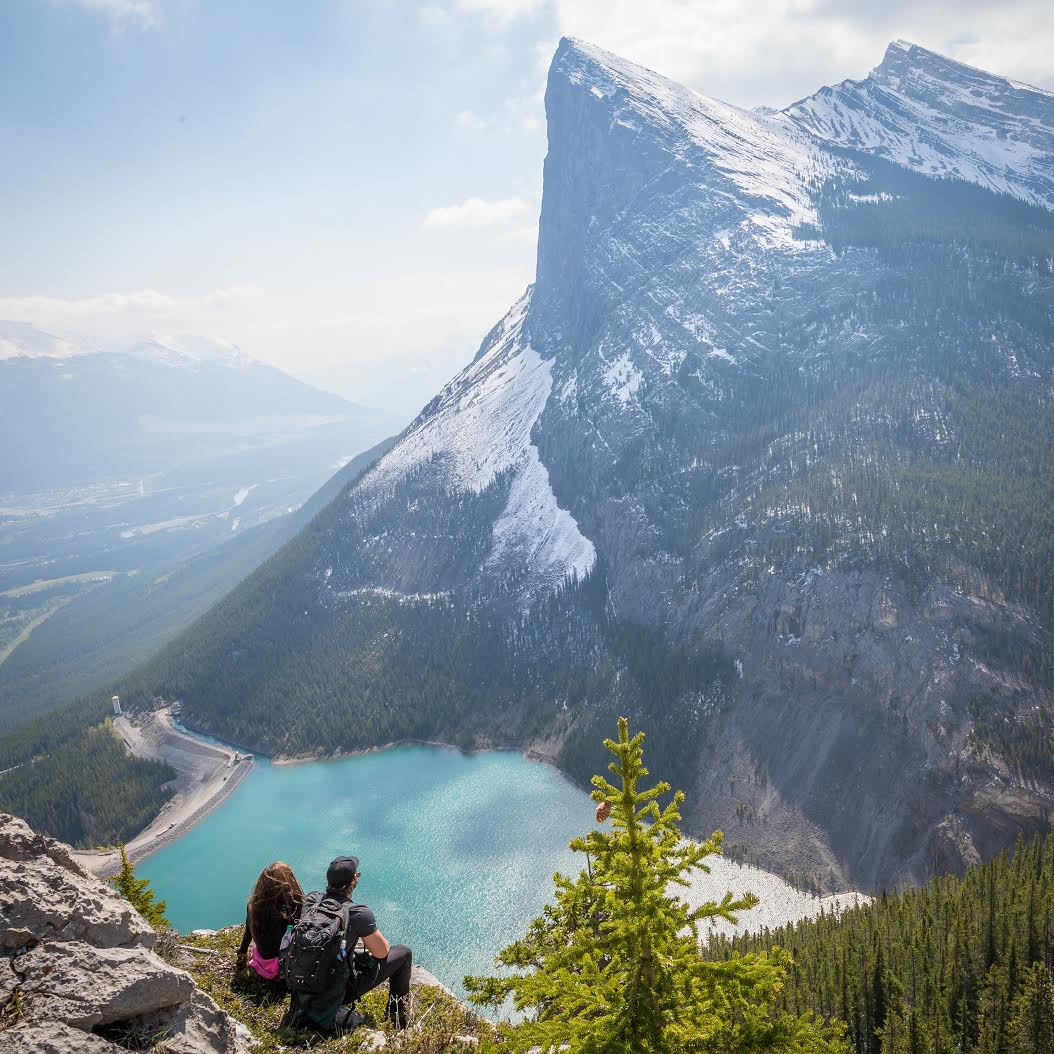
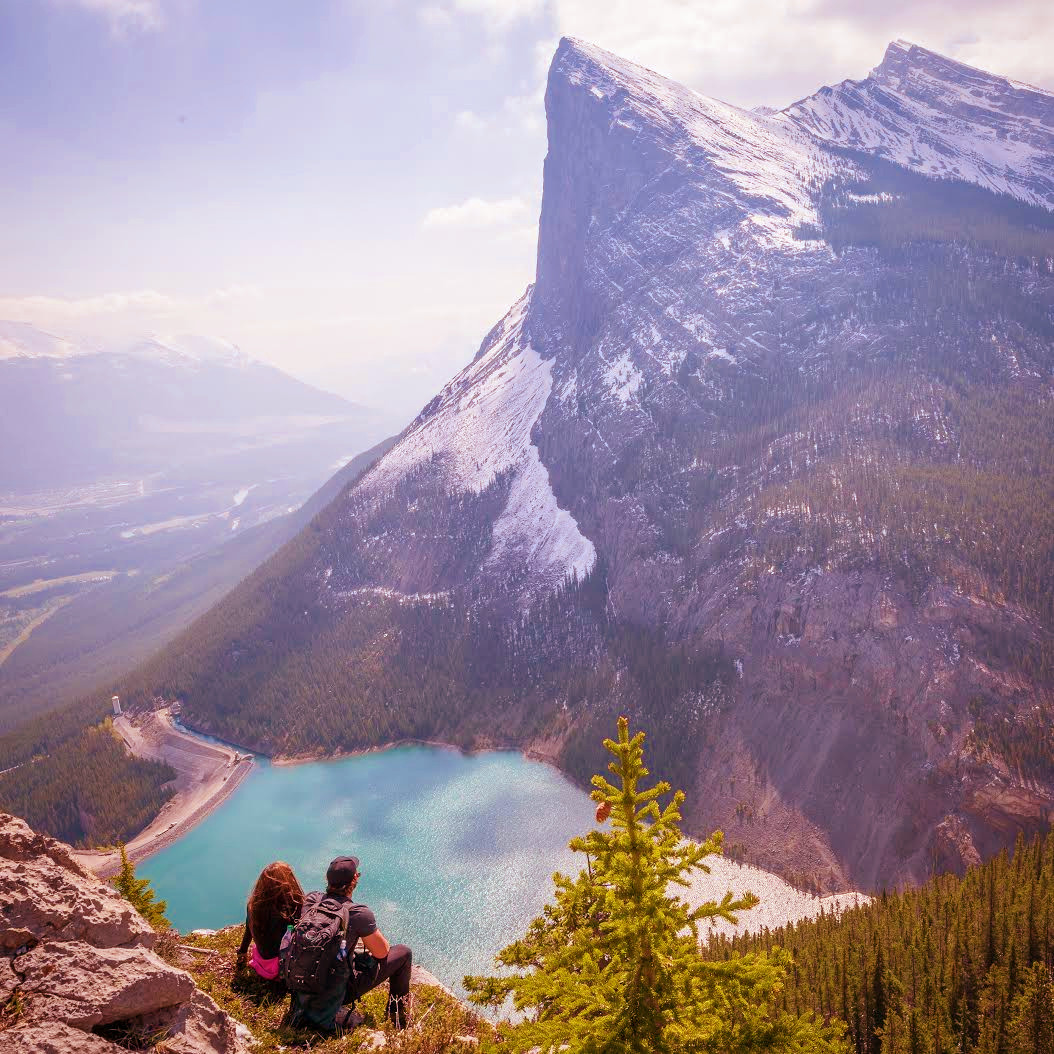
made pic 7 warmer & updated background position of hero image

diff --git a/index7.html b/index7.html
@@ -1,1 +1,1 @@
-<html><head><title>GeissDice</title><!--link(rel='stylesheet', href='960.css')--><!--link(rel='stylesheet', href='https://fonts.googleapis.com/css?family=Roboto:400,300,900,700')--><!--link(rel='stylesheet', href='https://raw.githubusercontent.com/ongspxm/web-tools/master/fontAwesome/FontAwesome.css')--><!--link(rel='stylesheet', href='https://raw.githubusercontent.com/ongspxm/web-tools/master/materialIcons/materialDesignIcons.css')--><!--link(rel='stylesheet', href='https://raw.githubusercontent.com/ongspxm/web-tools/master/reset.css')--><!--script(src=''https://raw.githubusercontent.com/ongspxm/web-tools/master/css_browser_selector.js)--><!--script(src='https://raw.githubusercontent.com/ongspxm/web-tools/master/prefixfree.min.js')--><meta name="viewport" content="width=device-width"/><link rel="stylesheet" href="mui.min.css"/><link rel="stylesheet" href="style.css"/></head><body><div id="hero" style="background-image:url('assets/pic7.jpg') !important;"><div class="overlay wrapper"><img src="assets/logo.png" class="logo"/><div class="title">Weekly date idea recommendation to keep dates interesting</div><button class="mui-btn">Subscribe to service</button></div></div><div id="info" class="wrapper"><div class="title">Tired of going to the same place over and over again?</div><div class="content"><p><strong>DateIdeas</strong> is a subscription that recommends you new places to hang out. You no longer have to scratch your head and struggle to find new things to do over the weekends.</p><p>At <strong>less than $2/month</strong>, DateIdeas is a great service that can help solve your weekly <strong>"where do we go next" problem</strong>. At the same time, you can now be the one who brings your friends to <strong>new and fascinating places</strong> all the time.</p></div><button class="mui-btn">I'm in</button></div><div id="features"><div class="features"><div class="feature"><i class="icon">&#xf073;</i><div class="title">New experiences every week</div><div class="content">We will be pushing out new information every week so stay tuned and watch out for the latest hangout spots.</div></div><div class="feature"><i class="icon">&#xf21c;</i><div class="title">Varying genres to keep things fresh</div><div class="content">Shopping malls every week is not our idea of fun. Some weeks should be for adventures, while others should be spent relaxing in each other's company.</div></div><div class="feature"><i class="icon">&#xf277;</i><div class="title">Places you enjoy</div><div class="content">Do you have a hangout location that you enjoy? Suggest it to us and you might find them featured in one of our weekly recommendations!</div></div></div><button class="mui-btn">Sign me up now</button></div><div id="footer" class="wrapper"><div class="text">Made with love by BlankSpace.</div><i>&#xf25b;</i></div></body></html>
+<html><head><title>GeissDice</title><!--link(rel='stylesheet', href='960.css')--><!--link(rel='stylesheet', href='https://fonts.googleapis.com/css?family=Roboto:400,300,900,700')--><!--link(rel='stylesheet', href='https://raw.githubusercontent.com/ongspxm/web-tools/master/fontAwesome/FontAwesome.css')--><!--link(rel='stylesheet', href='https://raw.githubusercontent.com/ongspxm/web-tools/master/materialIcons/materialDesignIcons.css')--><!--link(rel='stylesheet', href='https://raw.githubusercontent.com/ongspxm/web-tools/master/reset.css')--><!--script(src=''https://raw.githubusercontent.com/ongspxm/web-tools/master/css_browser_selector.js)--><!--script(src='https://raw.githubusercontent.com/ongspxm/web-tools/master/prefixfree.min.js')--><meta name="viewport" content="width=device-width"/><link rel="stylesheet" href="mui.min.css"/><link rel="stylesheet" href="style.css"/></head><body><div id="hero" style="background-image:url('assets/pic7.jpg') !important; background-position:bottom center !important;"><div class="overlay wrapper"><img src="assets/logo.png" class="logo"/><div class="title">Weekly date idea recommendation to keep dates interesting</div><button class="mui-btn">Subscribe to service</button></div></div><div id="info" class="wrapper"><div class="title">Tired of going to the same place over and over again?</div><div class="content"><p><strong>DateIdeas</strong> is a subscription that recommends you new places to hang out. You no longer have to scratch your head and struggle to find new things to do over the weekends.</p><p>At <strong>less than $2/month</strong>, DateIdeas is a great service that can help solve your weekly <strong>"where do we go next" problem</strong>. At the same time, you can now be the one who brings your friends to <strong>new and fascinating places</strong> all the time.</p></div><button class="mui-btn">I'm in</button></div><div id="features"><div class="features"><div class="feature"><i class="icon">&#xf073;</i><div class="title">New experiences every week</div><div class="content">We will be pushing out new information every week so stay tuned and watch out for the latest hangout spots.</div></div><div class="feature"><i class="icon">&#xf21c;</i><div class="title">Varying genres to keep things fresh</div><div class="content">Shopping malls every week is not our idea of fun. Some weeks should be for adventures, while others should be spent relaxing in each other's company.</div></div><div class="feature"><i class="icon">&#xf277;</i><div class="title">Places you enjoy</div><div class="content">Do you have a hangout location that you enjoy? Suggest it to us and you might find them featured in one of our weekly recommendations!</div></div></div><button class="mui-btn">Sign me up now</button></div><div id="footer" class="wrapper"><div class="text">Made with love by BlankSpace.</div><i>&#xf25b;</i></div></body></html>
